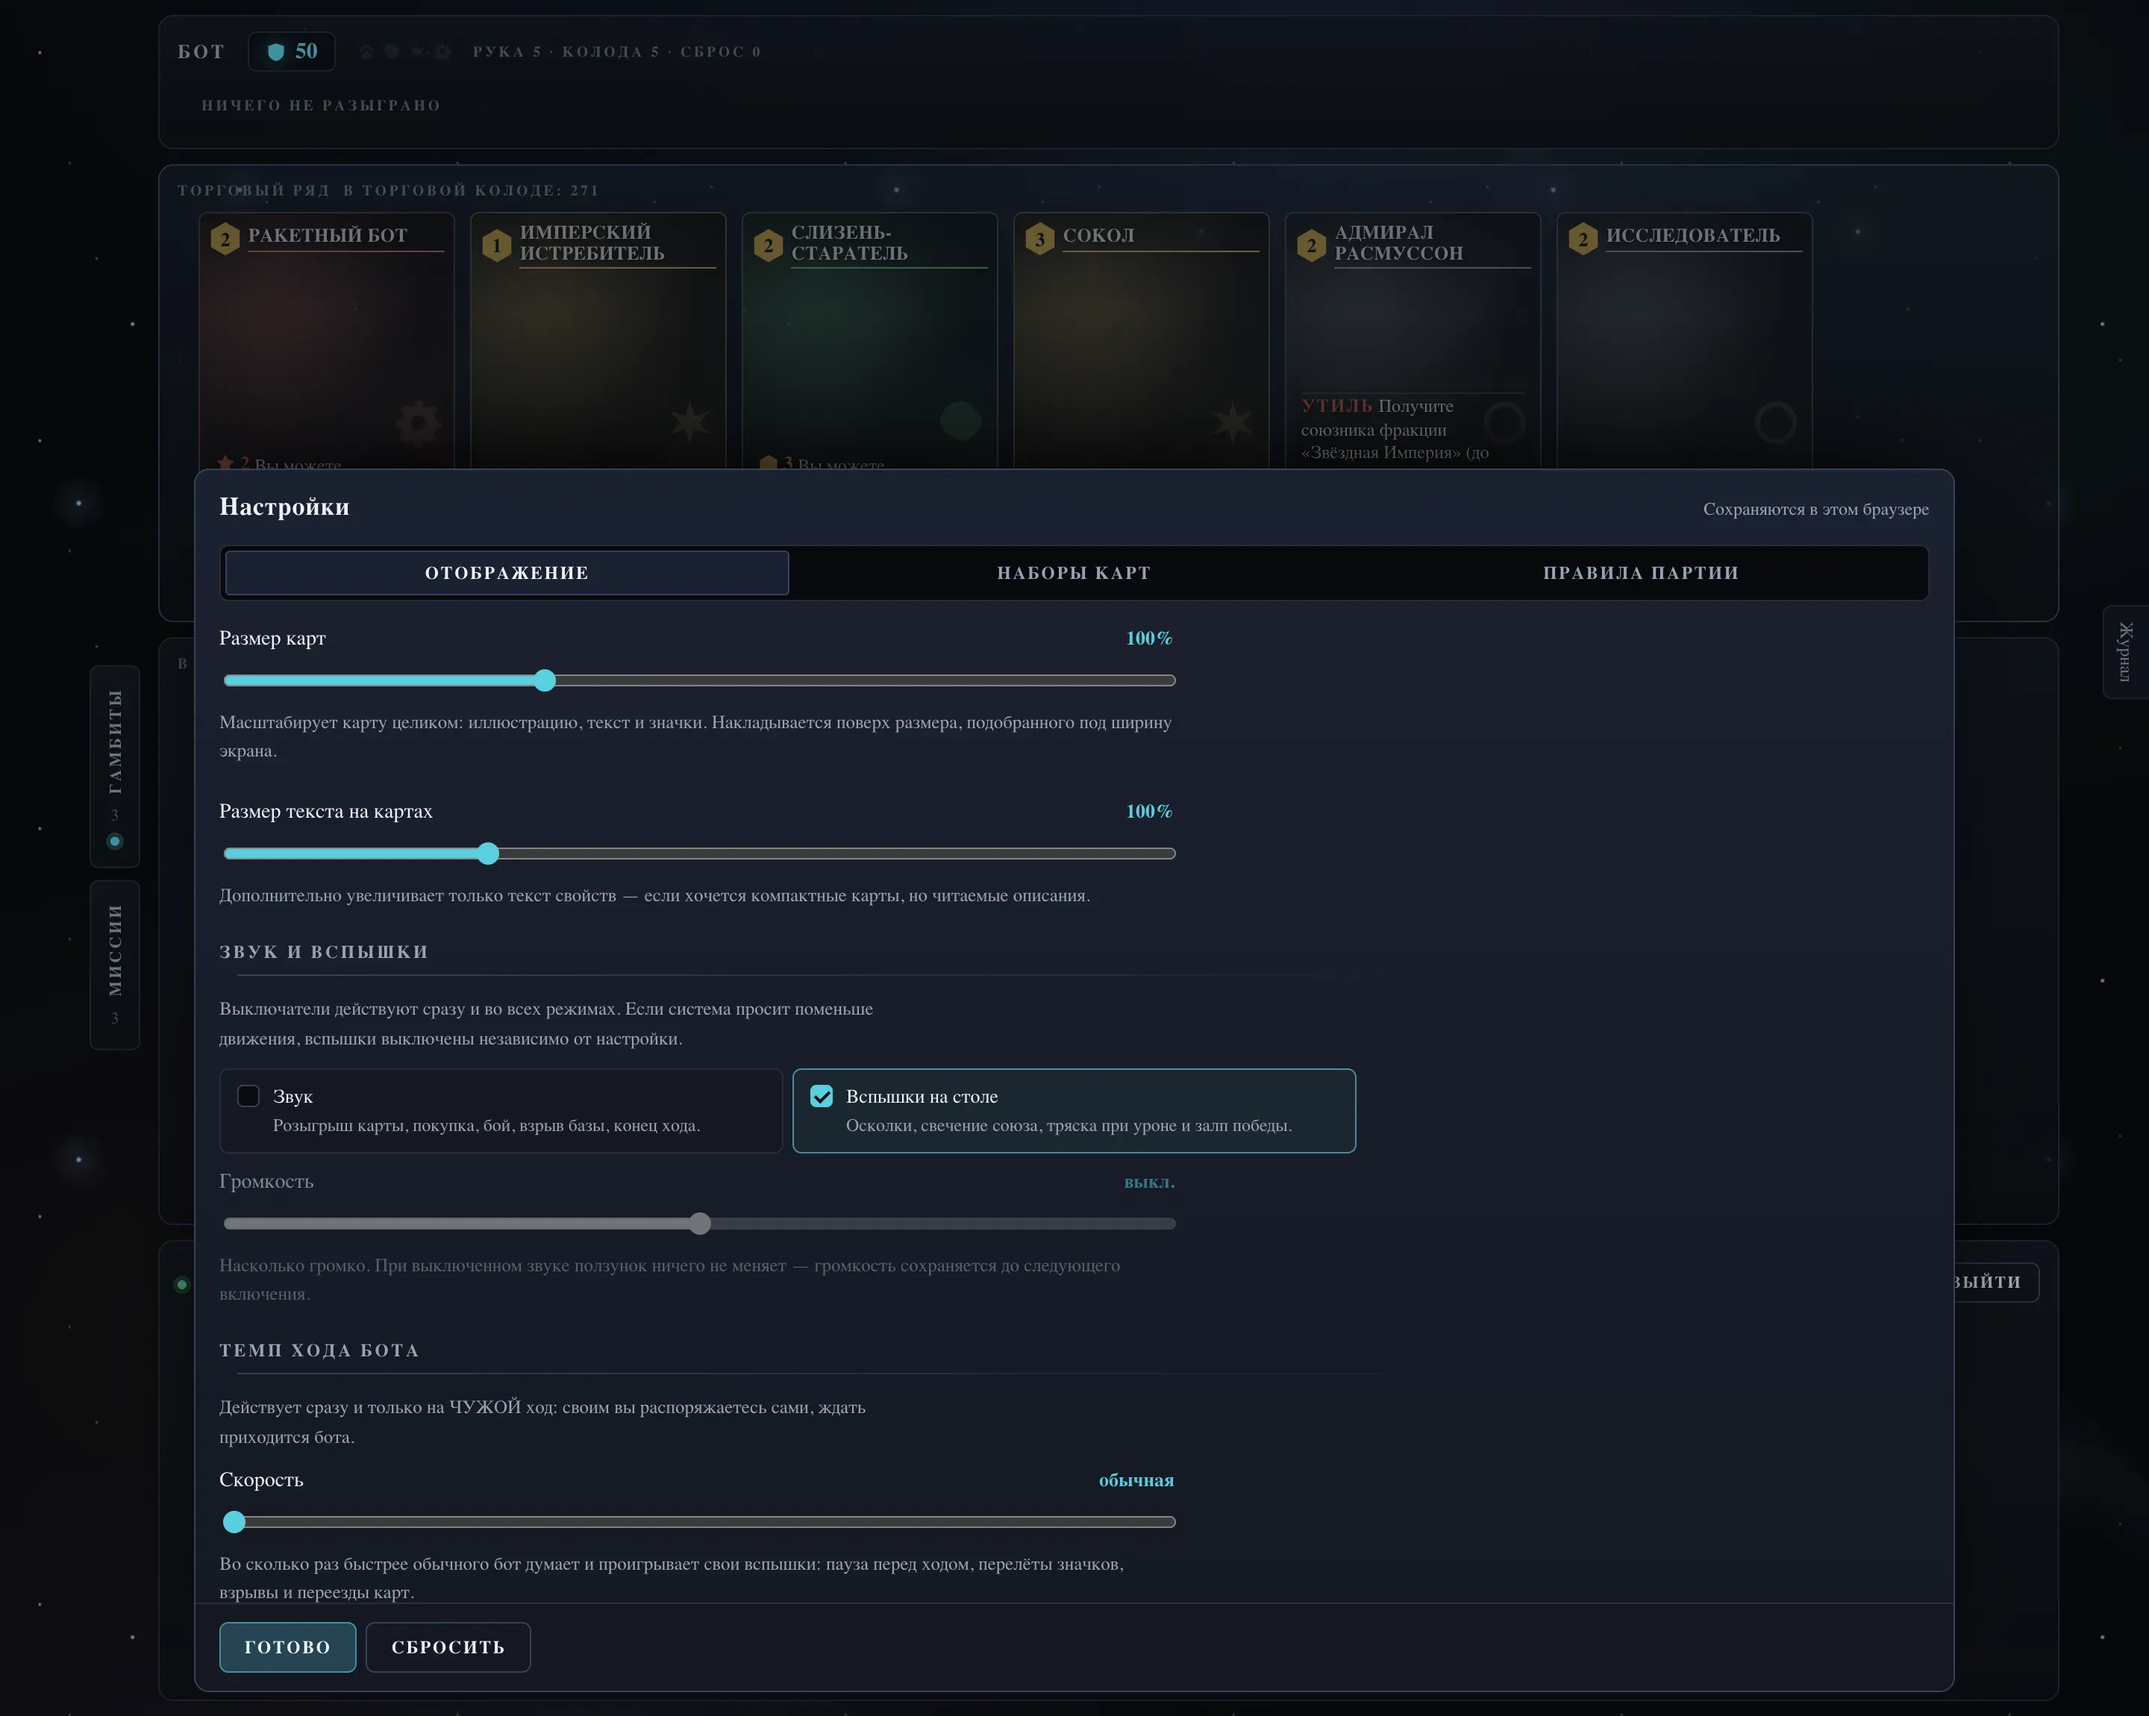
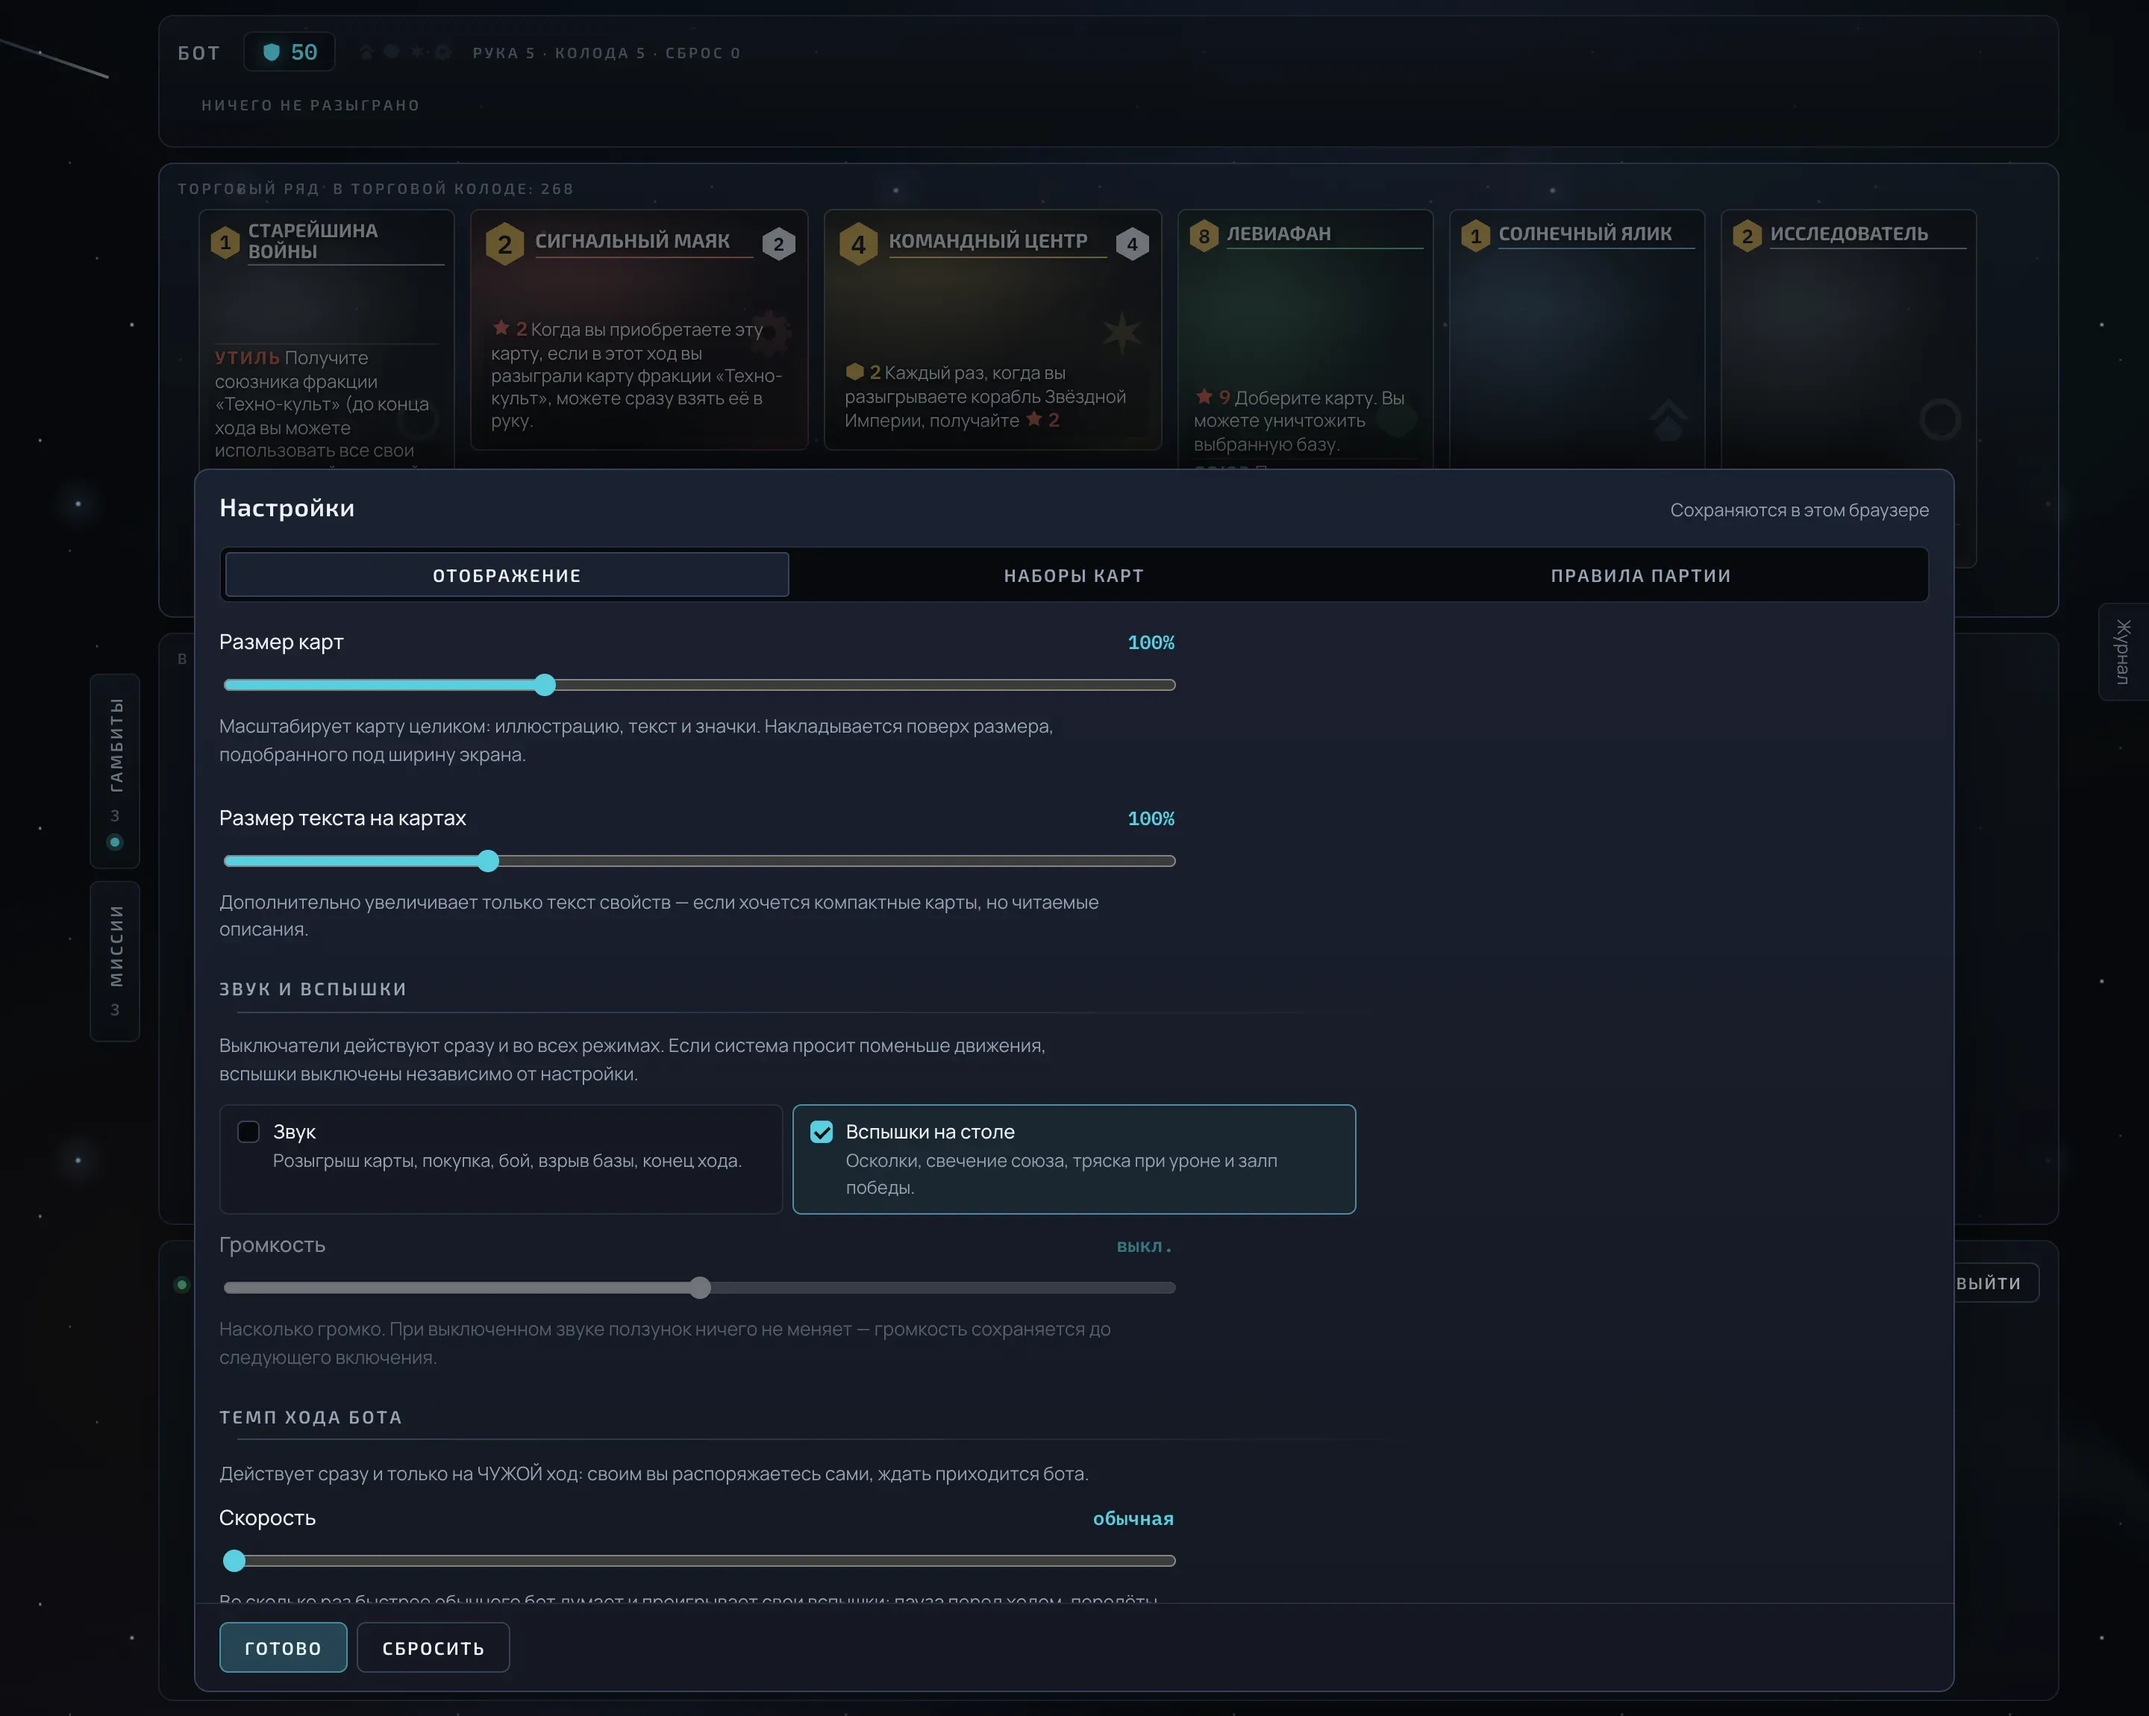
Поставить на стол Exo 2 и Manrope
Названия карт, кнопки и метки зон набраны Exo 2, описания свойств — Manrope.
Оба берутся с кириллическими подмножествами: это первое требование к
кандидату, у IBM Plex Sans Condensed, например, в Google Fonts есть только
cyrillic-ext, без базовой кириллицы.

Заодно чинится то, из-за чего выбор шрифта до сих пор ничего не менял.
next/font объявляет свои --f-* внутри класса, а класс висел на <body> —
переменные были не видны правилу на :root, где из них собираются
--font-display и --font-body. Пустая подстановка делала объявление
синтаксически неверным, браузер отбрасывал его целиком, и ВЕСЬ интерфейс
молча набирался системным шрифтом с засечками. Классы переехали на <html>,
и теперь на столе стоит тот шрифт, который выбран, а не Times.

Снимки для README пересняты, лист карт и HTML-отчёт подключают те же
семейства.

diff --git a/apps/web/src/app/layout.tsx b/apps/web/src/app/layout.tsx
@@ -1,18 +1,21 @@
 import type { Metadata, Viewport } from 'next'
-import { Fira_Sans_Condensed, IBM_Plex_Mono, IBM_Plex_Sans } from 'next/font/google'
+import { Exo_2, IBM_Plex_Mono, Manrope } from 'next/font/google'
 import { IconSprite } from '@/components/Icons'
 import './globals.css'
 
-// Cyrillic subsets are required: the interface and every card is in Russian, and
-// without them the browser silently swaps to a system face mid-sentence.
+// Кириллические подмножества обязательны: интерфейс и все карты на русском, и
+// без них браузер молча подменяет шрифт посреди фразы. По этой же причине сюда
+// не годится ни один шрифт, у которого в Google Fonts есть только
+// `cyrillic-ext` без базовой кириллицы, — названия карт набраны дисплейным, и
+// провал был бы виден на каждой.
 //
-// The display face is Fira Sans Condensed rather than IBM Plex Sans Condensed,
-// which ships only `cyrillic-ext` — no basic Russian alphabet. Card names are set
-// in the display face, so that gap would have been visible on every card.
-const body = IBM_Plex_Sans({
+// Exo 2 на названиях и Manrope в описаниях: первый техничный и держит форму в
+// наборе заглавными, второй спокойный и не спорит с ним в узкой колонке
+// текста свойства.
+const body = Manrope({
   subsets: ['latin', 'cyrillic'], weight: ['400', '500', '600'], variable: '--f-body', display: 'swap',
 })
-const display = Fira_Sans_Condensed({
+const display = Exo_2({
   subsets: ['latin', 'cyrillic'], weight: ['600', '700'], variable: '--f-display', display: 'swap',
 })
 const mono = IBM_Plex_Mono({
@@ -37,8 +40,18 @@ export default function RootLayout({ children }: { children: React.ReactNode }):
     // поэтому серверная разметка заведомо не совпадёт с клиентской. Это
     // единственный способ применить сохранённый масштаб без скачка, и подавление
     // здесь точечное — только на этом элементе.
-    <html lang="ru" suppressHydrationWarning>
-      <body className={`${body.variable} ${display.variable} ${mono.variable}`}>
+    // Классы шрифтов висят на <html>, а не на <body>, и это не косметика.
+    // next/font объявляет свои --f-* внутри класса; объявленные на <body>, они
+    // не видны правилу на :root — то есть ровно там, где из них собираются
+    // --font-display и --font-body. Пустая подстановка делала объявление
+    // синтаксически неверным, оно отбрасывалось целиком, и весь интерфейс
+    // молча набирался системным шрифтом с засечками.
+    <html
+      lang="ru"
+      className={`${body.variable} ${display.variable} ${mono.variable}`}
+      suppressHydrationWarning
+    >
+      <body>
         <style>{`:root{
           --font-body: var(--f-body), system-ui, sans-serif;
           --font-display: var(--f-display), 'Helvetica Neue', sans-serif;

diff --git a/apps/web/scripts/card-sheet.ts b/apps/web/scripts/card-sheet.ts
@@ -226,7 +226,7 @@ const PAGE = `<!doctype html>
 <title>Лист карт — размытие плашки</title>
 <link rel="preconnect" href="https://fonts.googleapis.com">
 <link rel="preconnect" href="https://fonts.gstatic.com" crossorigin>
-<link href="https://fonts.googleapis.com/css2?family=Fira+Sans+Condensed:wght@400;600;700&family=IBM+Plex+Mono:wght@400;600&family=IBM+Plex+Sans:wght@400;600&display=swap" rel="stylesheet">
+<link href="https://fonts.googleapis.com/css2?family=Exo+2:wght@400;600;700&family=IBM+Plex+Mono:wght@400;600&family=Manrope:wght@400;500;600&display=swap" rel="stylesheet">
 <style>
 /*GAME_CSS*/
 </style>

diff --git a/apps/web/src/app/globals.css b/apps/web/src/app/globals.css
@@ -59,8 +59,8 @@
    * обязано быть общим: разойдясь, они разъедутся на широком мониторе. */
   --table-max: 1340px;
 
-  --font-display: 'Fira Sans Condensed', 'Helvetica Neue', sans-serif;
-  --font-body: 'IBM Plex Sans', system-ui, sans-serif;
+  --font-display: 'Exo 2', 'Helvetica Neue', sans-serif;
+  --font-body: 'Manrope', system-ui, sans-serif;
   --font-mono: 'IBM Plex Mono', ui-monospace, monospace;
 }
 

diff --git a/README.md b/README.md
@@ -140,9 +140,10 @@ npm run shots      # снимки интерфейса для README, docs/scree
 запроса и границы выбора (`prompt`, `min`, `max`), а формулировку целиком строит
 интерфейс, поэтому второй язык не затронет правила.
 
-Дисплейный шрифт — Fira Sans Condensed, а не IBM Plex Sans Condensed: у второго в Google
-Fonts есть только `cyrillic-ext`, без базовой кириллицы, и названия карт падали бы на
-системный шрифт.
+Шрифты — Exo 2 на названиях карт, кнопках и метках зон и Manrope в описаниях свойств.
+Оба берутся с кириллическими подмножествами, и это первое требование к кандидату: у
+IBM Plex Sans Condensed, например, в Google Fonts есть только `cyrillic-ext`, без базовой
+кириллицы, и названия карт молча падали бы на системный шрифт.
 
 ## Настройки отображения
 
